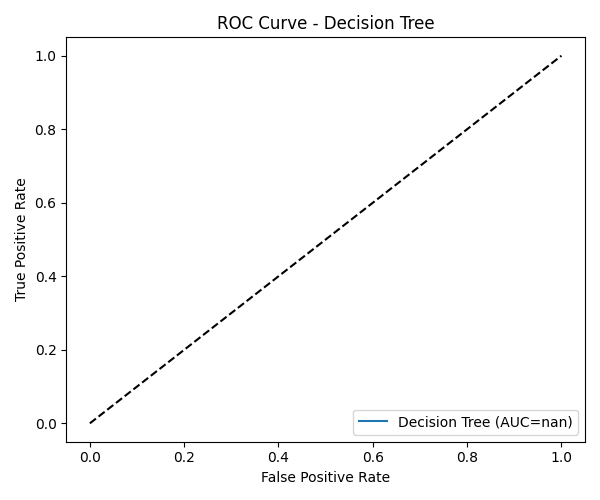
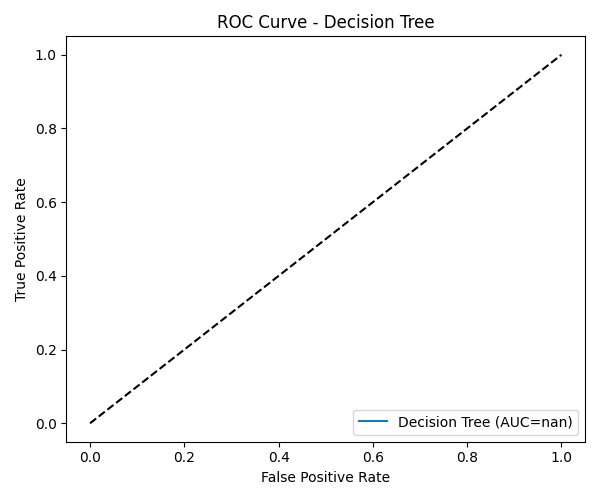
Update

diff --git a/smart-healthcare-analytics/src/messaging.py b/smart-healthcare-analytics/src/messaging.py
@@ -37,8 +37,7 @@ def get_conversation(user_a_id: int, user_b_id: int, limit: int = 200) -> pd.Dat
 
     with session_scope() as session:
         stmt = (
-            select(Message)
-            .where(
+            select(Message).where(
                 or_(
                     and_(Message.sender_id == user_a_id, Message.receiver_id == user_b_id),
                     and_(Message.sender_id == user_b_id, Message.receiver_id == user_a_id),

diff --git a/smart-healthcare-analytics/src/auth.py b/smart-healthcare-analytics/src/auth.py
@@ -32,7 +32,7 @@ class AuthenticatedUser:
 def hash_password(password: str) -> str:
     if bcrypt:
         return bcrypt.hashpw(password.encode("utf-8"), bcrypt.gensalt()).decode("utf-8")
-    # Fallback (not recommended) – store plain text
+
     return password
 
 
